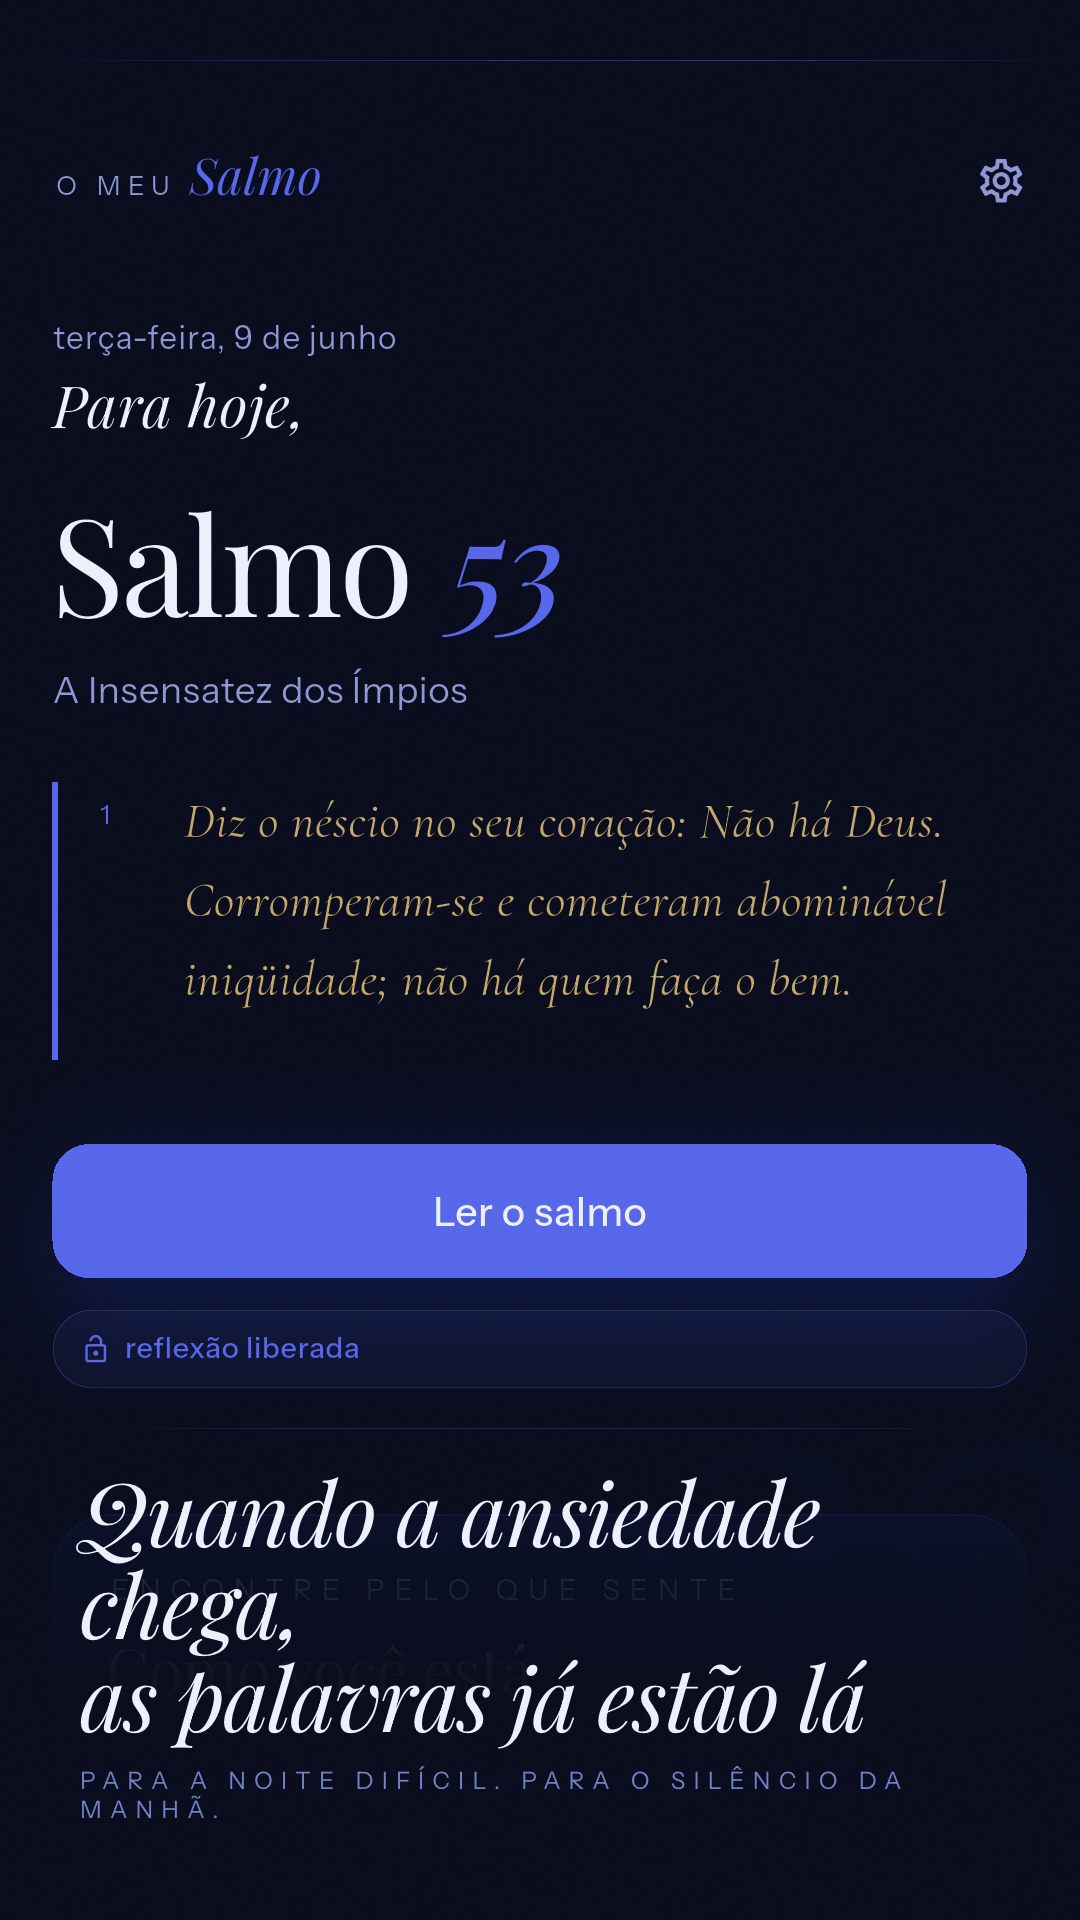
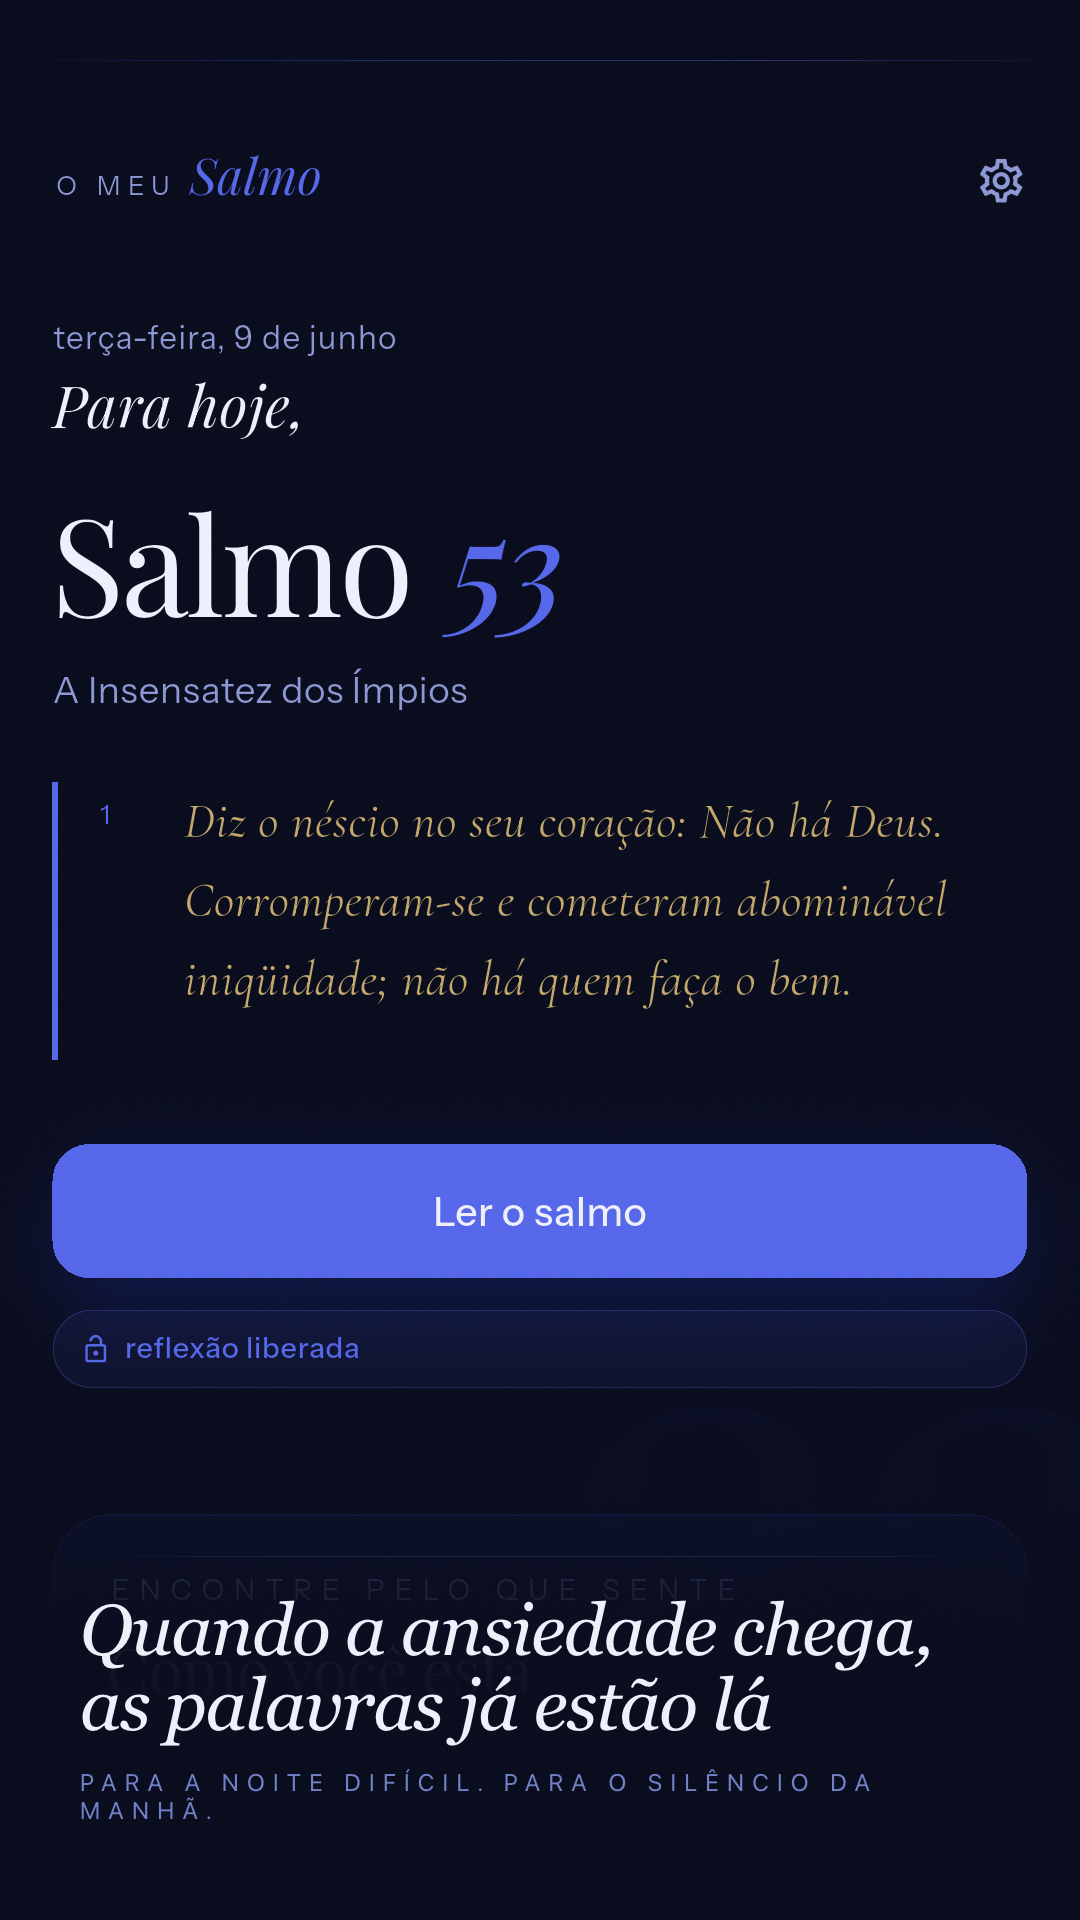
play-store: fix s2 and s4 headline line breaks
S2: remove manual br, reduce font 88→72px so CSS wraps naturally into
3 balanced lines (~18 chars each) instead of 1 long + 1 short.
S4: remove manual br, CSS breaks "Mais que" / "ler — pausar" naturally
in 480px centered container instead of dangling "pausar" alone.

Changed region(s): [[0.0611, 0.75, 0.8556, 0.9688], [0.7944, 0.9062, 0.825, 0.9375]]

diff --git a/play-store/screenshots/final/s2-home.html b/play-store/screenshots/final/s2-home.html
@@ -155,7 +155,7 @@
       font-family: 'Playfair Display', Georgia, serif;
       font-style: italic;
       font-weight: 400;
-      font-size: 88px;
+      font-size: 72px;
       line-height: 1.05;
       color: var(--night-cream);
       margin-bottom: 24px;
@@ -199,7 +199,7 @@
   <!-- Footer overlay -->
   <div class="footer-overlay">
     <div class="gradient-divider"></div>
-    <h1 class="headline">Quando a ansiedade chega,<br>as palavras já estão lá</h1>
+    <h1 class="headline">Quando a ansiedade chega, as palavras já estão lá</h1>
     <p class="sub">Para a noite difícil. Para o silêncio da manhã.</p>
   </div>
 

diff --git a/play-store/screenshots/final/s4-reflexao.html b/play-store/screenshots/final/s4-reflexao.html
@@ -243,7 +243,7 @@
   <!-- Headline above app -->
   <div class="top-text">
     <div class="deco-bar"></div>
-    <h1 class="headline">Mais que ler —<br>pausar</h1>
+    <h1 class="headline">Mais que ler — pausar</h1>
     <p class="sub">Uma reflexão por Salmo, para ir além do texto</p>
   </div>
 
